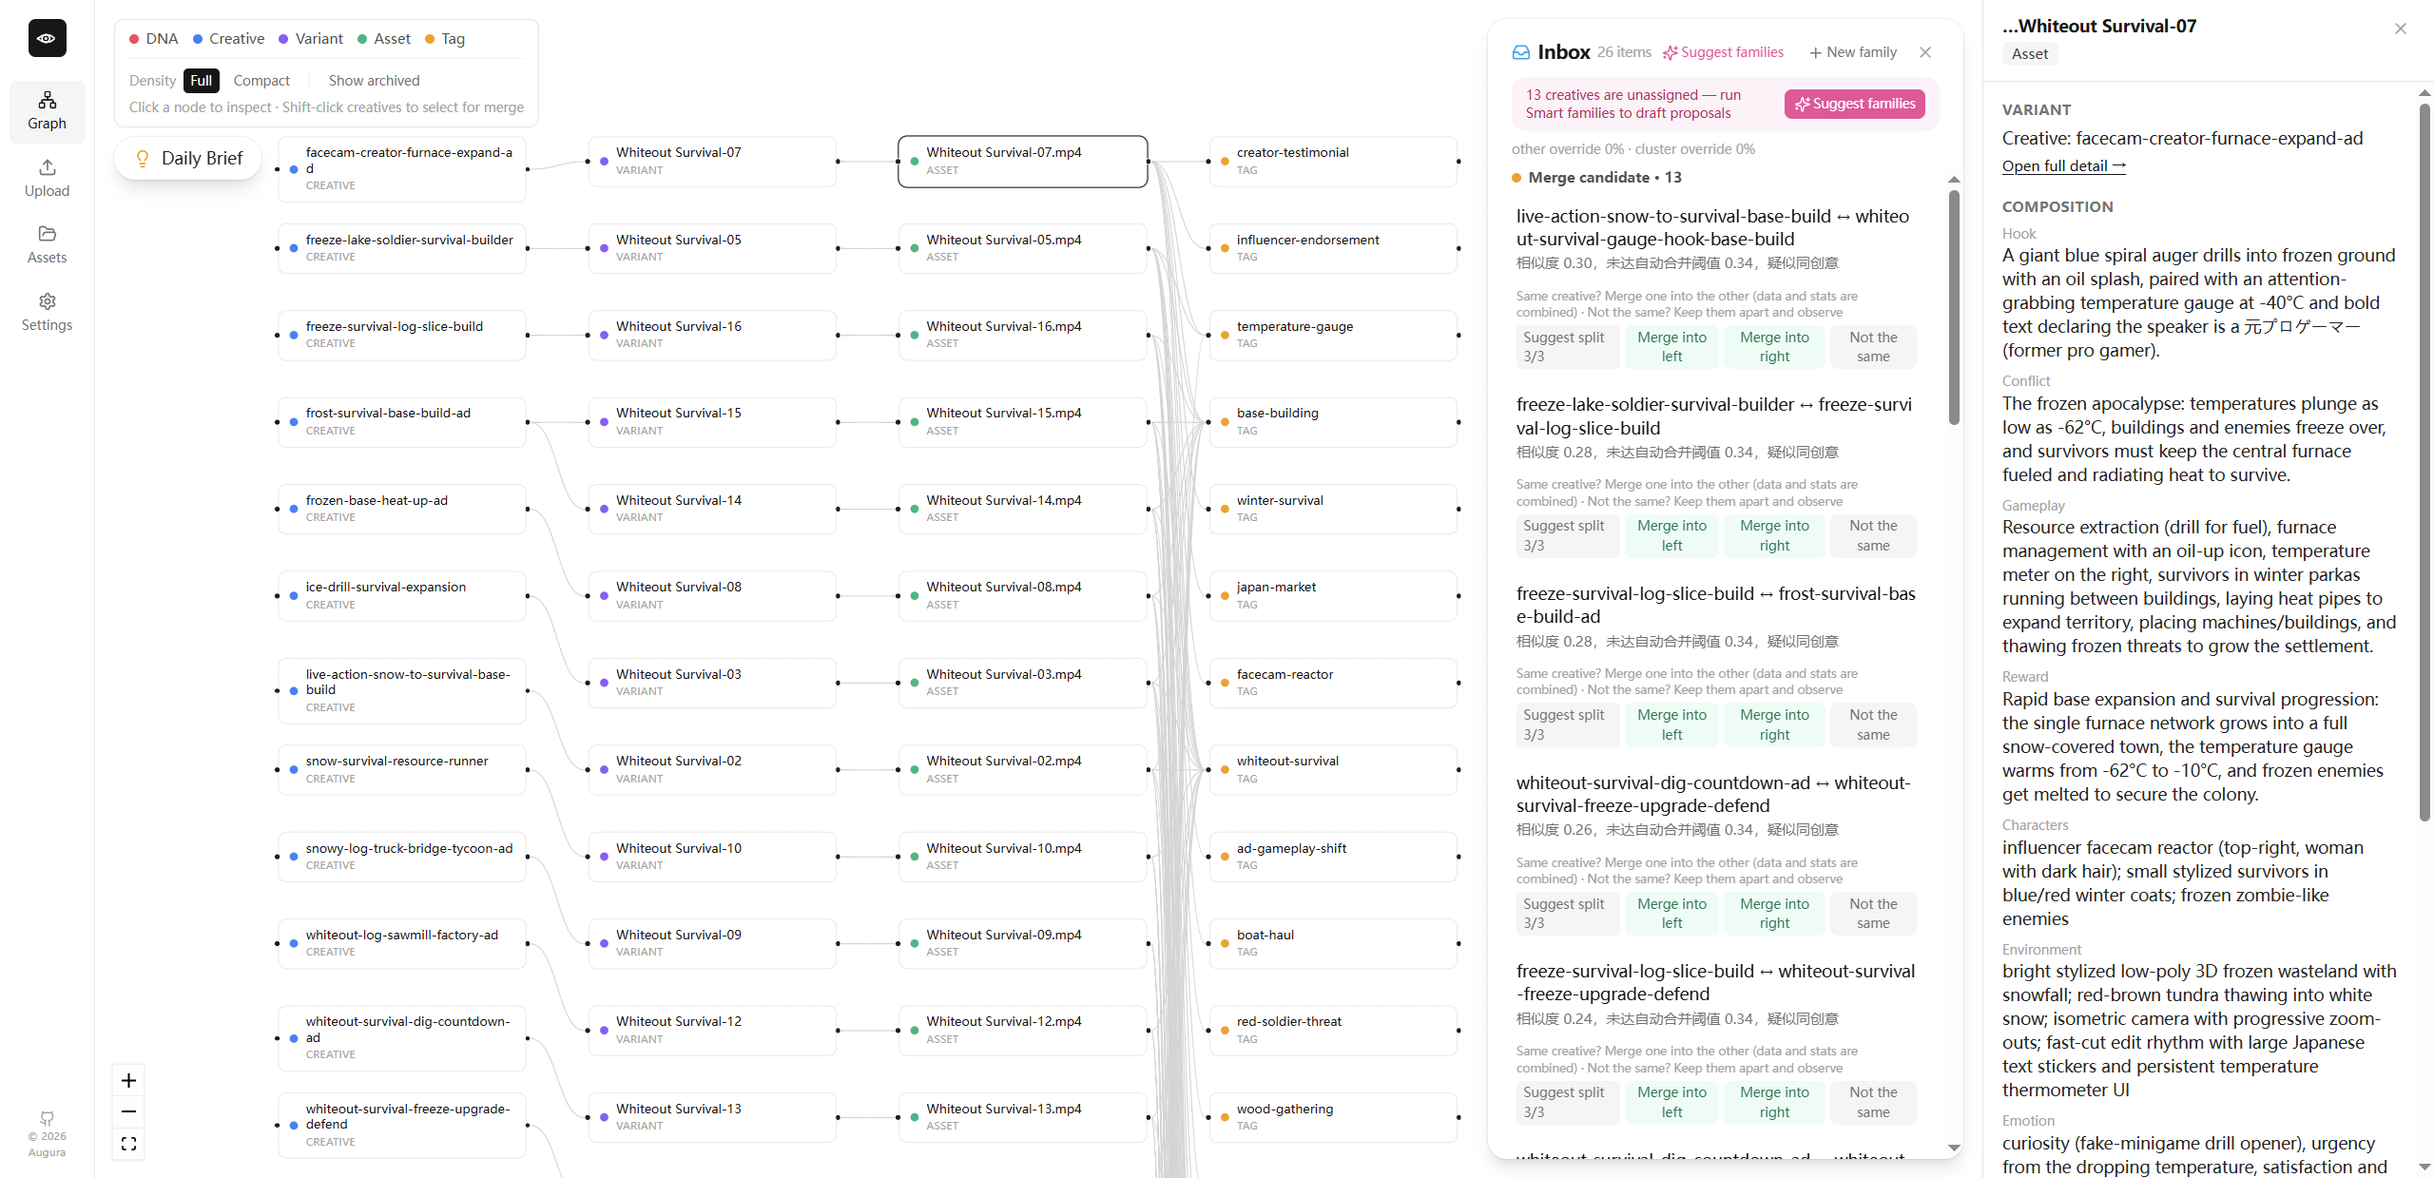
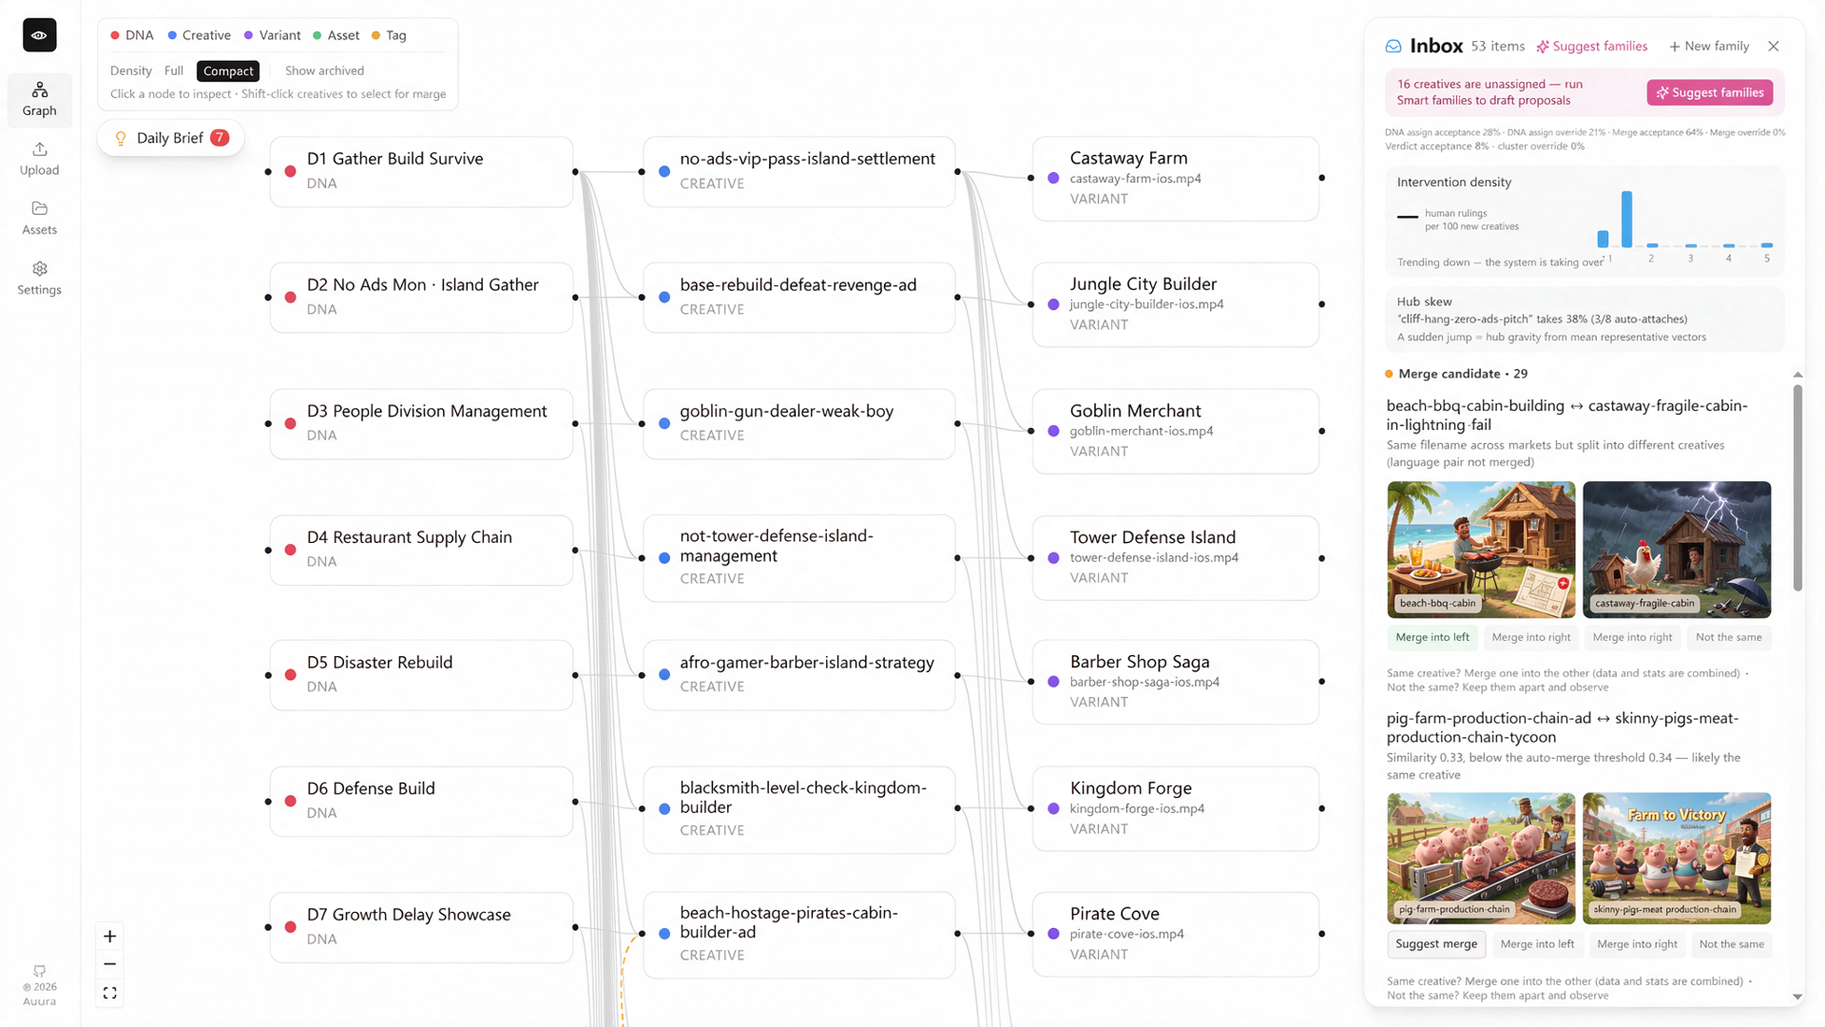
docs(readme): improve product homepage flow

diff --git a/README.md b/README.md
@@ -1,49 +1,40 @@
 <div align="center">
 
-<picture>
-  <source media="(prefers-color-scheme: dark)" srcset="docs/assets/logo-dark.svg">
-  <source media="(prefers-color-scheme: light)" srcset="docs/assets/logo-light.svg">
-  <img alt="Augura" src="docs/assets/logo-light.svg" width="72">
-</picture>
-
-# Augura
+<table align="center">
+  <tr>
+    <td><picture>
+      <source media="(prefers-color-scheme: dark)" srcset="docs/assets/logo-dark.svg">
+      <source media="(prefers-color-scheme: light)" srcset="docs/assets/logo-light.svg">
+      <img alt="Augura eye mark" src="docs/assets/logo-light.svg" width="112">
+    </picture></td>
+    <td><h1>Augura</h1></td>
+  </tr>
+</table>
 
 **Ad creatives expire. The judgment behind them shouldn't.**
 
-A local-first creative intelligence system for mobile-game UA teams.<br/>
-It decomposes every creative into structure, links them into a graph, and turns every human ruling into a compounding team asset.
+**Turn every creative review into reusable team memory.**<br>
+Local-first creative intelligence for mobile-game UA teams.
 
-[![CI](https://github.com/augura-os/augura/actions/workflows/ci.yml/badge.svg)](https://github.com/augura-os/augura/actions/workflows/ci.yml)
+[Quick Start](#quick-start) · [Watch the concept demo](#product-demo) · [简体中文](README.zh-CN.md)
 
-**English | [简体中文](README.zh-CN.md)**
+[![CI](https://github.com/augura-os/augura/actions/workflows/ci.yml/badge.svg)](https://github.com/augura-os/augura/actions/workflows/ci.yml) [![Latest Release](https://img.shields.io/github/v/release/augura-os/augura?label=Latest%20Release)](https://github.com/augura-os/augura/releases/latest) [![Modified Apache 2.0](https://img.shields.io/badge/license-Modified%20Apache%202.0-blue)](LICENSE) [![Local-first](https://img.shields.io/badge/Local--first-by%20default-2f9e44)](#data--privacy)
 
 </div>
 
-## What is Augura?
-
-Every UA team shares the same quiet pain: only the creative planner who designed a hit knows why it hit — and when they leave, the experience leaves with them. Creatives sit in cloud drives, data sits in spreadsheets, and judgment calls like "is this the same concept as last month's?" get re-made from scratch, every single week.
-
-Augura systematizes this. Upload a creative and AI decomposes it into hook, conflict, gameplay and reward. Decomposed creatives cluster into a five-layer graph: DNA → Creative → Variant → Asset → Tag. From then on, every human ruling — merge or split, did this iteration work — is remembered. The next time the same situation shows up, the system brings a suggestion; you just confirm.
-
-Think of it as local-first creative intelligence infrastructure: your data stays on your machine by default (frame samples go to the model provider you configure during AI analysis), judgment stays with you, and the repetitive work goes to the system.
+## Product demo
 
 <p align="center">
-  <img src="docs/assets/screenshot-graph-inbox.png" alt="Augura main interface — the creative graph on the left, the review inbox on the right" width="100%">
+  <img src="docs/assets/augura-demo-full.gif" alt="Three-part concept demo showing creative analysis, a human merge ruling, and a later suggestion informed by that ruling" width="100%">
 </p>
+<p align="center"><sub>Full 26-second concept demo · Synthetic data · <a href="https://auguraos.com/assets/augura-demo.mp4">Watch the real 26-second product demo →</a></sub></p>
 
 <p align="center">
-  <sub>The main interface: the creative graph on the left (DNA → Creative → Variant → Asset → Tag), and the review inbox on the right waiting for one-word rulings.</sub>
+  <img src="docs/assets/screenshot-graph-inbox.png" alt="Actual Augura interface showing the creative graph, review inbox, creative-family candidates and visual evidence" width="100%">
 </p>
+<p align="center"><sub>Actual product interface · Creative graph and human-review inbox.</sub></p>
 
-## Features
-
-- **AI creative analysis** — videos are frame-sampled and read by a vision model into structured JSON (hook / conflict / gameplay / reward / characters / emotion / tags). Low-confidence results route to human review — the AI never gets to guess silently.
-- **Creative graph** — a five-layer knowledge graph (Neo4j) visualizes your entire creative world. Same filename with KS_EN and KS_KR market tags? The system spots two market versions of one creative and waits for your one-word ruling.
-- **Merge guard** — pairs you once ruled "not the same creative" are remembered forever. Anyone trying to merge them must write down why. You make each judgment once — never twice.
-- **Evolution tracking** — every variant records what it derived from and which factor changed (language / aspect ratio / intro sticker). When performance data flows back, you verdict the iteration; when a direction is exhausted, the system says so.
-- **Review inbox** — merge candidates, unassigned creatives, observation-pair closures, each pre-adjudicated by LLM self-consistency votes with reasons attached. And there's a brake on AI mistakes: if the override rate crosses the line, auto-judging degrades to suggestion-only.
-- **Explainable verdicts** — the Daily Brief's calls come from a registry of 18 named rules (rules-v3), each returning one of KEEP / ITERATE / PAUSE / ARCHIVE. Every suggestion carries a `reason_code` traceable to the exact named rule, a priority in dollars, and a confidence score.
-- **Data sovereignty** — creatives, performance rows and analyses live on your own machine / server / NAS (local data volumes). The Creative Genome Program is whitelist-only (creative names hashed), one-click opt-out, fully auditable.
+> **Beta boundary**: Augura is a single-user local tool, with one project per instance. Docker Desktop is required. There is no auth or multi-tenancy, and all ports bind to `127.0.0.1` by default. **Do not expose it directly to the public internet**; team/server deployments need your own reverse proxy and authentication layer.
 
 ## Quick Start
 
@@ -55,9 +46,12 @@ Think of it as local-first creative intelligence infrastructure: your data stays
 curl -fsSL https://raw.githubusercontent.com/augura-os/augura/main/scripts/install.sh | bash
 ```
 
-On macOS you can also download the repo and double-click `install.command`. On **Windows**, double-click `install.bat`. All of them are idempotent — re-running updates and restarts.
+On macOS you can also download the repo and double-click `install.command`. On **Windows**, double-click `install.bat` from a checkout. All of them are idempotent — re-running updates and restarts.
 
-Manually, from a checkout:
+Then open **http://localhost:3000**.
+
+<details>
+<summary>Manual Docker setup, local service URLs and network troubleshooting</summary>
 
 ```bash
 cp .env.example .env
@@ -72,15 +66,40 @@ docker compose up --build -d  # dev/private: build locally (first run ~20 min)
 | Neo4j Browser | http://localhost:7474 (random password generated on first install — see .env) |
 | MinIO Console | http://localhost:9001 (same) |
 
-> **Deployment boundary**: Augura is a **single-user local tool** — no auth, no multi-tenancy, all ports bind to 127.0.0.1 by default. **Do not expose it directly to the public internet**; team/server deployments need your own reverse proxy + auth layer.
+The installer auto-falls-back from `raw.githubusercontent.com` to jsDelivr. When `ghcr.io` is unreachable, it pulls images via a mirror (`AUGURA_IMAGE_MIRROR`, default `ghcr.nju.edu.cn`). If Docker Hub is slow for the base images, configure `registry-mirrors` in Docker Desktop. For the Docker Desktop installer itself (~600 MB), a multi-connection downloader such as `aria2c` can help.
 
-> **Slow network?** The installer auto-falls-back: `raw.githubusercontent.com` → jsDelivr, and when `ghcr.io` is unreachable it pulls images via a mirror (`AUGURA_IMAGE_MIRROR`, default `ghcr.nju.edu.cn`). If Docker Hub is slow for the base images (postgres/neo4j/minio), configure `registry-mirrors` in Docker Desktop settings. For the Docker Desktop installer itself (~600 MB), a multi-connection downloader such as `aria2c` helps a lot.
+</details>
 
-## Getting Going
+## How Augura helps
+
+| Step | What you get |
+| --- | --- |
+| **Understand** | Turn each video into comparable creative elements such as hook, conflict, gameplay and reward. |
+| **Connect** | Find related concepts and variants, then review proposed links in context. |
+| **Remember** | Keep merge, split and iteration rulings available for future suggestions. |
+| **Decide** | Get a Daily Brief with explainable recommendations and the numbers behind them. |
+
+<details>
+<summary>Detailed capabilities</summary>
+
+- **AI creative analysis** — videos are frame-sampled and read by a vision model into structured JSON (hook / conflict / gameplay / reward / characters / emotion / tags). Low-confidence results route to human review — the AI never gets to guess silently.
+- **Creative graph** — a five-layer knowledge graph (Neo4j) visualizes your entire creative world. Same filename with KS_EN and KS_KR market tags? The system spots two market versions of one creative and waits for your one-word ruling.
+- **Merge guard** — pairs you once ruled "not the same creative" are remembered forever. Anyone trying to merge them must write down why. You make each judgment once — never twice.
+- **Evolution tracking** — every variant records what it derived from and which factor changed (language / aspect ratio / intro sticker). When performance data flows back, you verdict the iteration; when a direction is exhausted, the system says so.
+- **Review inbox** — merge candidates, unassigned creatives and observation-pair closures, each pre-adjudicated by LLM self-consistency votes with reasons attached. If the override rate crosses the line, auto-judging degrades to suggestion-only.
+- **Explainable verdicts** — the Daily Brief's calls come from a registry of 18 named rules (`rules-v3`), each returning one of KEEP / ITERATE / PAUSE / ARCHIVE. Every suggestion carries a `reason_code` traceable to the exact named rule, a priority in dollars and a confidence score. This is decision support, not automatic media buying.
+- **Data sovereignty** — creatives, performance rows and analyses live on your own machine / server / NAS in local data volumes. The Creative Genome Program uses documented allowlisted event fields and can be switched off in Settings.
+
+</details>
+
+## From installation to the first useful decision
 
 ### 1. Set your AI key
 
-Open **Settings** and paste a key from any OpenAI-compatible provider. The preset buttons fill in the matching Base URL and models for you:
+Open **Settings** and paste a key from any OpenAI-compatible provider. Nothing is called until you upload something. Self-hosted / local endpoints work too; with a local vision model, your frames never leave the machine.
+
+<details>
+<summary>Provider presets, local embeddings and configuration pitfalls</summary>
 
 | Key source | Base URL | Vision model | Embedding |
 | --- | --- | --- | --- |
@@ -88,34 +107,35 @@ Open **Settings** and paste a key from any OpenAI-compatible provider. The prese
 | Kimi Open Platform (platform.moonshot.cn) | `https://api.moonshot.cn/v1` | `kimi-k2.5` | `BAAI/bge-small-zh-v1.5` (built-in local) |
 | Kimi Coding Plan (kimi.com, `sk-kimi-…` keys) | `https://api.kimi.com/coding/v1` | `kimi-for-coding` | `BAAI/bge-small-zh-v1.5` (built-in local) |
 
-The built-in local embedding model downloads once on first use (~95 MB) and works offline afterwards; only if it is unavailable does recall fall back to local text similarity.
+The built-in local embedding model downloads once on first use (~95 MB) and works offline afterwards; if unavailable, recall falls back to local text similarity.
 
-The two kinds of Kimi keys are **not interchangeable** — a `sk-kimi-` coding-plan key returns 401 on `api.moonshot.cn`, and vice versa. A Base URL missing its `/v1` path fails analysis with a 404; Settings warns before saving such a URL. Self-hosted / local endpoints (Ollama-compatible, etc.) work too — just fill in your own Base URL, and your frames never leave the machine. Nothing is called until you upload something.
+The two kinds of Kimi keys are **not interchangeable** — a `sk-kimi-` coding-plan key returns 401 on `api.moonshot.cn`, and vice versa. A Base URL missing its `/v1` path fails analysis with a 404; Settings warns before saving such a URL.
+
+</details>
 
 ### 2. Upload a batch
 
-Drag mp4 / png / xlsx (Facebook exports) into **Upload**. Each video takes a few minutes to analyze — grab a coffee and watch the graph grow.
+Drag mp4 / png / xlsx (Facebook exports) into **Upload**. Each video takes a few minutes to analyze; the graph grows as results arrive.
 
-### 3. Read the graph, clear the inbox
+### 3. Review the suggestions
 
-By the time you're back, suspected duplicates are already linked as candidates. Open the **inbox**: every item carries an LLM suggestion with its reasoning. Merge, split, assign — one click each.
+Open the **inbox**: merge candidates, unassigned creatives and observation-pair closures arrive with suggestions and reasons. Merge, split or assign — the human ruling is saved.
 
 ### 4. Feed performance back
 
-Upload the week's delivery Excel and spend, payers and ROAS match back to creatives automatically. The **Daily Brief** tells you what to scale, what to iterate and what to kill — with the numbers behind every call.
+Upload the week's delivery Excel. Spend, payers and ROAS match back to creatives, and the **Daily Brief** turns them into reviewable next actions with the numbers behind every call.
 
-That's it. Your creative assets have started compounding. 🎉
+<details>
+<summary>Running multiple projects</summary>
 
-## Multiple projects?
-
-One Augura instance = one project: the graph, asset library, DNAs and inbox are all instance-global. To manage multiple games/projects, **run a separate instance per project** (fully isolated data):
+One Augura instance = one project. To manage multiple games/projects, run a separate instance per project with fully isolated data:
 
 ```bash
 git clone <repo> augura-game-a
 git clone <repo> augura-game-b
 ```
 
-In `augura-game-b/`, add a `docker-compose.override.yml` to shift the host ports (container-to-container traffic uses the internal network and is unaffected; `!override` replaces the port list wholesale and needs Docker Compose v2.24+):
+In `augura-game-b/`, add a `docker-compose.override.yml` to shift the host ports. Container-to-container traffic uses the internal network and is unaffected. `!override` replaces the port list wholesale and requires Docker Compose v2.24+:
 
 ```yaml
 services:
@@ -138,7 +158,17 @@ services:
       - "127.0.0.1:3001:80"
 ```
 
-Run `docker compose up -d` in each directory; project B lives at http://localhost:3001. AI keys, market prefixes etc. are configured per instance on its own Settings page. Caveats: no cross-project analysis, and each instance runs its own Postgres/Neo4j/MinIO (memory ×N). Single-instance multi-project support (a project switcher) is on the roadmap — the schema already reserves `project_id`.
+Run `docker compose up -d` in each directory; project B lives at http://localhost:3001. AI keys and market prefixes are configured per instance. Each instance runs its own Postgres/Neo4j/MinIO, so memory usage scales with the number of instances. Single-instance multi-project support is on the roadmap; the schema already reserves `project_id`.
+
+</details>
+
+## Data & Privacy
+
+See [PRIVACY.md](PRIVACY.md) for the full policy. Data follows three separate paths:
+
+- **Project data** stays in the local data volumes by default.
+- **AI analysis** sends sampled frames and structured results to the model endpoint you configure in Settings. A local endpoint can keep those requests on your machine.
+- **Telemetry** is not transmitted by a default self-hosted install because `TELEMETRY_ENDPOINT` is empty. If you configure an endpoint, the Creative Genome Program is enabled by default and can be turned off in Settings; operational error/version events remain enabled while the endpoint is configured. See the [telemetry field allowlist](apps/api/telemetry/allowlist.py).
 
 ## Architecture
 
@@ -150,49 +180,32 @@ Run `docker compose up -d` in each directory; project B lives at http://localhos
                             │
               ┌─────────────┼─────────────┐
               │             │             │
-        ┌─────┴─────┐ ┌─────┴─────┐ ┌─────┴─────┐
-        │   Neo4j   │ │   MinIO   │ │ LLM provider│
-        │  (graph)  │ │ (files)   │ │(analysis/  │
-        └───────────┘ └───────────┘ │ judging)   │
-                                    └───────────┘
+        ┌─────┴─────┐ ┌─────┴─────┐ ┌─────┴────────┐
+        │   Neo4j   │ │   MinIO   │ │ LLM provider │
+        │  (graph)  │ │  (files)  │ │(analysis/    │
+        └───────────┘ └───────────┘ │  judging)    │
+                                    └──────────────┘
 ```
 
 | Layer | Stack |
-|------|--------|
+| --- | --- |
 | Frontend | React + TypeScript + Vite + React Flow |
 | Backend | FastAPI + SQLAlchemy + Alembic (Python 3.12) |
 | Storage | PostgreSQL 16 · Neo4j 5 · MinIO |
-| AI | Any OpenAI-compatible endpoint (OpenAI / Kimi…), vision-model analysis + self-consistency judging |
+| AI | Any OpenAI-compatible endpoint; vision-model analysis + self-consistency judging |
 
-## Development
+## Development & Contributing
 
-See [CONTRIBUTING.md](CONTRIBUTING.md) (trunk-based + PR + CI).
+See [CONTRIBUTING.md](CONTRIBUTING.md) for the trunk-based workflow, PR requirements and release process.
 
 ```bash
-cd apps/web && npm install && npm run dev   # hot reload, proxied to :8000
-cd apps/api && pytest                        # backend tests
+cd apps/web && npm install && npm run dev
+cd apps/api && pytest
 ```
 
-For the offline merge-family evaluation harness and its privacy/test protocol, see [docs/merge-family-experiment.md](docs/merge-family-experiment.md).
+For the offline merge-family evaluation harness and its privacy/test protocol, see [docs/merge-family-experiment.md](docs/merge-family-experiment.md). Questions, bugs and workflow proposals are welcome in [GitHub Issues](https://github.com/augura-os/augura/issues).
 
-## Data & Privacy
-
-See [PRIVACY.md](PRIVACY.md). The precise version: **raw creatives and performance details stay on your machine by default; during AI analysis, frame samples and structured data go to the model provider you configure in Settings** (any OpenAI-compatible endpoint — the destination is your choice). We want your judgment, not your assets.
-
-What the Creative Genome Program sends (on by default, one-click opt-out in Settings):
-
-| Event | Fields | Purpose |
-| --- | --- | --- |
-| Feature click | feature name, time bucket | usage stats |
-| Correction | field, change direction (creative names hashed) | model training |
-| Aggregates | genre, metric bucket, count | industry benchmarks |
-
-Operational data (always on — errors and version only, for compatibility support):
-
-| Event | Fields | Purpose |
-| --- | --- | --- |
-| Session start | app version, OS family, time bucket | compatibility |
-| Error | error code, stack signature, time bucket | stability fixes |
+If Augura earns your trust, a [star](https://github.com/augura-os/augura) helps other UA and creative teams discover it.
 
 ## Why "Augura"?
 
